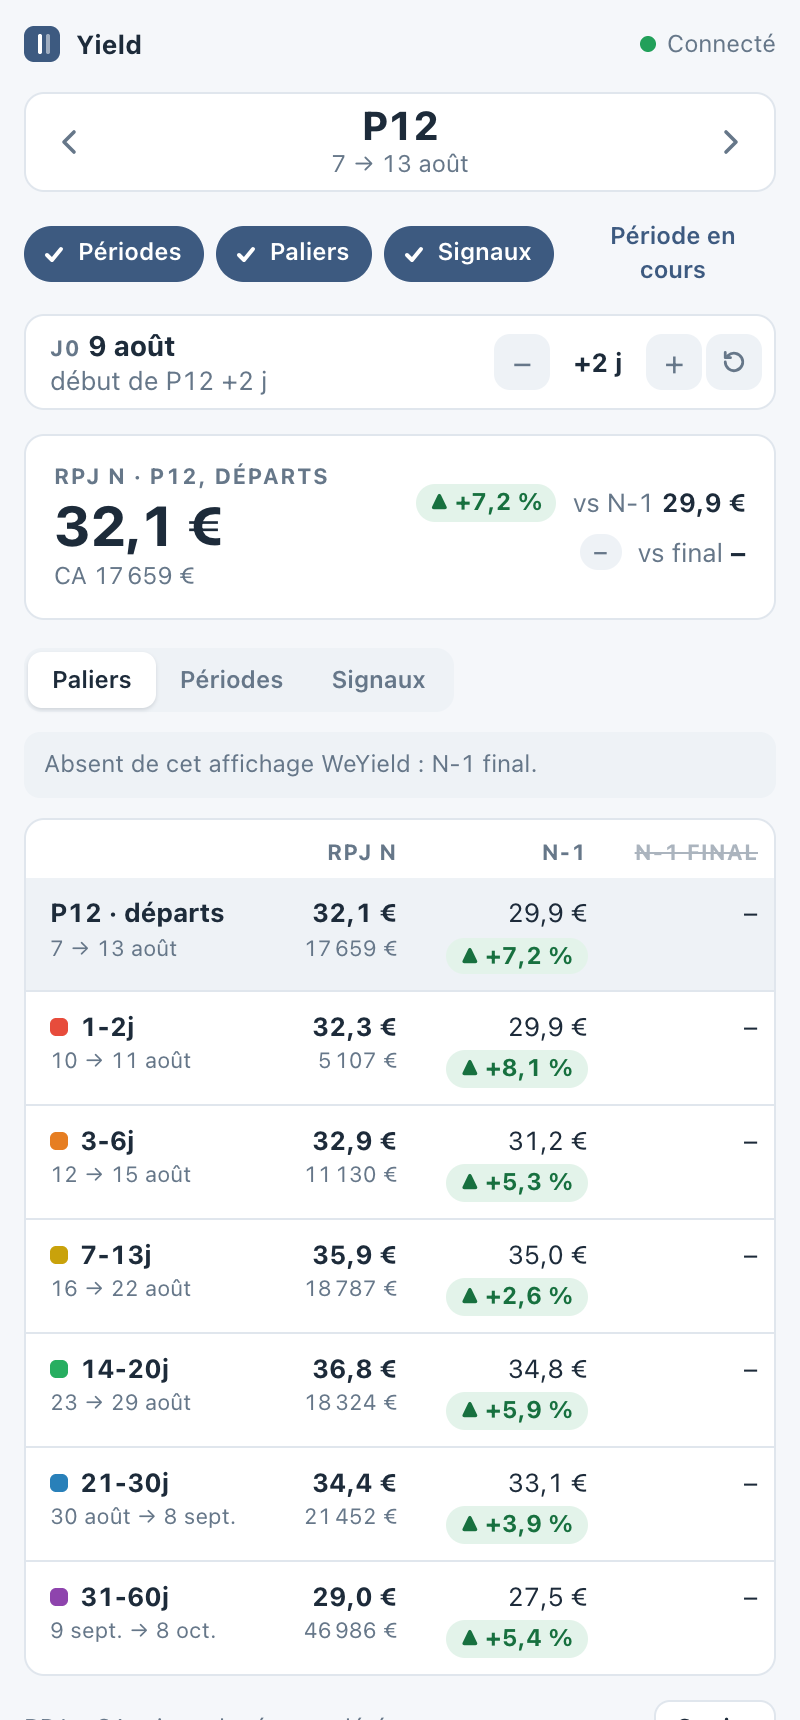
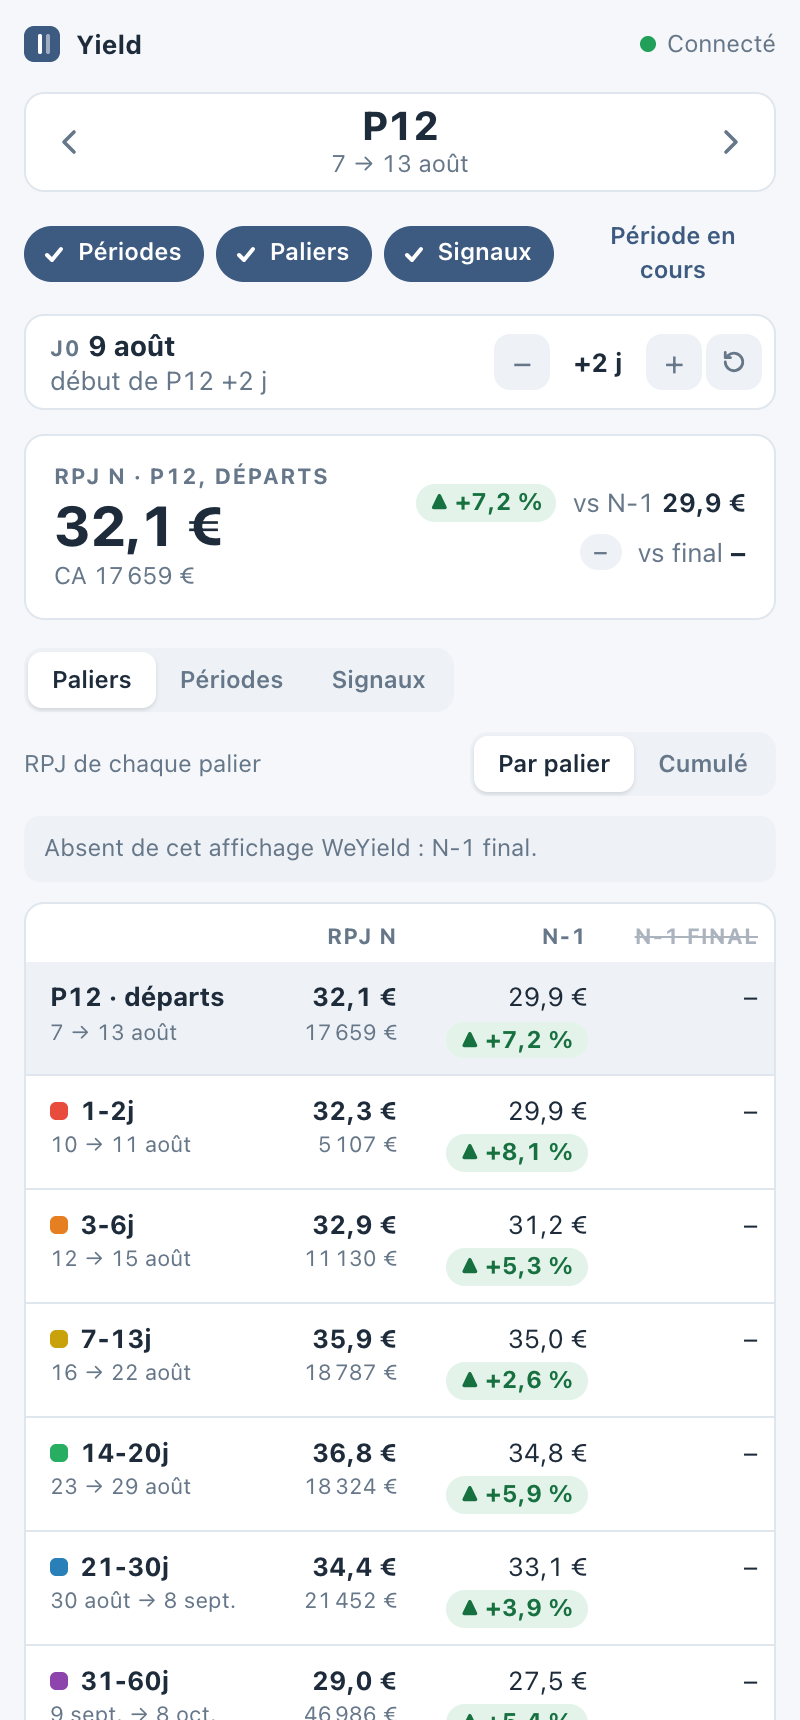
Yield WeYield v3.4.0 : bascule Paliers Par palier / Cumulé (pondéré)

diff --git a/src/panel/panel.js b/src/panel/panel.js
@@ -12,7 +12,7 @@
 
   // ---------- préférences propres au panneau ----------
   const PREF_KEY = 'wypPanel';
-  const prefs = Object.assign({ tab: 'zones', settings: false, source: 'jev' }, (() => { try { return JSON.parse(localStorage.getItem(PREF_KEY)); } catch (e) { return null; } })());
+  const prefs = Object.assign({ tab: 'zones', settings: false, source: 'jev', cum: false },(() => { try { return JSON.parse(localStorage.getItem(PREF_KEY)); } catch (e) { return null; } })());
   const savePrefs = () => { try { localStorage.setItem(PREF_KEY, JSON.stringify(prefs)); } catch (e) {} };
 
   // ---------- formats ----------
@@ -126,8 +126,11 @@
 
     $$('.seg [data-tab]').forEach(b => b.setAttribute('aria-selected', String(b.dataset.tab === prefs.tab)));
     $('#tabZones').textContent = 'Paliers';
-    const sigTab = prefs.tab === 'signals';
+    const sigTab = prefs.tab === 'signals', cum = cumOn();
     $('#tbl').hidden = sigTab; $('#tblfoot').hidden = sigTab; $('#sig').hidden = !sigTab;
+    $('#cumbar').hidden = prefs.tab !== 'zones';
+    $$('[data-cum]').forEach(b => b.setAttribute('aria-pressed', String((b.dataset.cum === '1') === !!prefs.cum)));
+    $('#tblnote').textContent = cum ? 'Cumulé depuis le 1er palier, pondéré' : 'RPJ = CA ÷ jours loués, pondéré';
     renderMsgs();
     if (sigTab) renderSignals(); else renderTable();
     syncSettings();
@@ -152,6 +155,9 @@
     const cmp = (o, d, off) => (off || !o ? '<td>–</td>' : `<td>${rpj(o.rpd)}<br>${pill(d)}</td>`);
     return `<td>${h.rpd && r.cur ? `<b>${rpj(r.cur.rpd)}</b><small>${ca(r.cur.rev)}</small>` : '–'}</td>${cmp(r.ly, r.dLy, !h.ly)}${cmp(r.lyf, r.dLyf, !h.lyf)}`;
   }
+  // Vue cumulée des paliers (onglet Paliers seulement) : chaque ligne = du premier palier jusqu'à elle, calculé par le moteur.
+  const cumOn = () => prefs.tab === 'zones' && !!prefs.cum && !!(view && view.cumZones);
+  const shownZones = () => (cumOn() ? view.cumZones : view.zones);
   function renderTable() {
     const v = view, h = v.has;
     const partial = r => (r.nDays < r.full ? `<small>⚠ ${r.nDays}/${r.full} j chargés</small>` : '');
@@ -162,7 +168,8 @@
         : '<tr><td colspan="4" class="mut">Aucune période dans la plage du graphique.</td></tr>';
     } else {
       const head = `<tr class="head"><td><span class="zl">${pLabel(v.selP)} · départs</span><small>${rng(v.selStats.from, v.selStats.to)}</small>${partial(v.selStats)}</td>${cells(v.selStats)}</tr>`;
-      body = head + (v.zones.length ? v.zones.map((z, i) => `<tr data-z="${i}" tabindex="0"><td><i style="background:rgb(${PALETTE[z.ci % PALETTE.length]})"></i><span class="zl">${z.label}</span><small>${rng(z.from, z.to)}</small>${partial(z)}</td>${cells(z)}</tr>`).join('')
+      const zs = shownZones();
+      body = head + (zs.length ? zs.map((z, i) => `<tr data-z="${i}" tabindex="0"><td><i style="background:rgb(${PALETTE[z.ci % PALETTE.length]})"></i><span class="zl">${z.label}</span><small>${rng(z.from, z.to)}</small>${partial(z)}</td>${cells(z)}</tr>`).join('')
         : '<tr><td colspan="4" class="mut">Aucun palier : ajoutez-en dans les réglages.</td></tr>');
     }
     $('#tbl').innerHTML = `<table><thead><tr><th></th><th>RPJ N</th>
@@ -293,6 +300,7 @@
     if (d.layer) return send({ op: 'toggle', name: d.layer });
     if (d.off != null && view) { const o = +d.off; return send({ op: 'config', patch: { offset: o === 0 ? 0 : view.offset + o } }); }
     if (d.tab) { prefs.tab = d.tab; savePrefs(); return view && render(); }
+    if (d.cum != null) { prefs.cum = d.cum === '1'; savePrefs(); return view && render(); }
     if (d.k != null && t.tagName !== 'BUTTON') return send({ op: 'select', k: +d.k });
   });
   document.addEventListener('keydown', e => {
@@ -307,7 +315,8 @@
   $('#sig').addEventListener('toggle', e => { const d = e.target; if (d.classList && d.classList.contains('jd')) { d.open ? openJd.add(+d.dataset.k) : openJd.delete(+d.dataset.k); } }, true);
 
   // survol d'une ligne → la zone ressort sur le graphique
-  const hover = (zone, period) => { const k = `${zone}|${period}`; if (k === lastHover) return; lastHover = k; send({ op: 'hover', zone, period }); };
+  // en vue cumulée, le palier survolé ressort avec tous les plus courts (les jours réellement additionnés)
+  const hover = (zone, period) => { const cum = zone != null && cumOn(), k = `${zone}|${period}|${cum}`; if (k === lastHover) return; lastHover = k; send({ op: 'hover', zone, period, cum }); };
   const hoverRow = e => { const r = e.target.closest ? e.target.closest('tr[data-z], tr[data-k], .sigc') : null; if (!r) return; r.dataset.z != null ? hover(+r.dataset.z, null) : hover(null, +r.dataset.k); };
   ['#tbl', '#sig'].forEach(sel => { const el = $(sel); el.addEventListener('mouseover', hoverRow); el.addEventListener('focusin', hoverRow); el.addEventListener('mouseleave', () => hover(null, null)); el.addEventListener('focusout', () => hover(null, null)); });
 
@@ -318,7 +327,7 @@
     if (!view) return;
     const rows = prefs.tab === 'periods'
       ? view.periodRows.map(r => Object.assign({ label: r.p.label }, r))
-      : [Object.assign({ label: `${view.selP.label} départs` }, view.selStats), ...view.zones.map(z => Object.assign({ label: `${view.selP.label} ${z.label}` }, z))];
+      : [Object.assign({ label: `${view.selP.label} départs` }, view.selStats), ...shownZones().map(z => Object.assign({}, z, { label: `${view.selP.label} ${z.label}${cumOn() ? ' cumulé' : ''}` }))];
     navigator.clipboard.writeText(WY.toTSV(rows)).then(() => flash('Copié ✓'), () => flash('Copie impossible'));
   });
 

diff --git a/test/browser/run.js b/test/browser/run.js
@@ -139,6 +139,29 @@ const near = (a, b, e = 0.06) => Math.abs(a - b) < e;
   hb = await bands();
   ok('fin du survol : retour à la normale', hb.find(b => b.id === 'wyp-t2').bw === 1);
 
+  // 5b. vue cumulée : chaque palier = du premier palier (1-2j) jusqu'à lui
+  ok('bascule Par palier | Cumulé visible, « Par palier » par défaut', await P.locator('#cumbar').isVisible() && (await P.getAttribute('[data-cum="0"]', 'aria-pressed')) === 'true');
+  await P.click('[data-cum="1"]'); await wait(200);
+  const c36 = await expect('2026-08-07', 1, 6), c713 = await expect('2026-08-07', 1, 13), d12 = await expect('2026-08-07', 1, 2);
+  const rc12 = await row('tr[data-z="0"]'), rc36 = await row('tr[data-z="1"]'), rc713 = await row('tr[data-z="2"]');
+  ok('cumulé 3-6j : 8 → 13 août, valeurs exactes (N, N-1, N-1 final)', /8 → 13 août/.test(rc36[0]) && near(num(rc36[1]), c36[0]) && near(num(rc36[2]), c36[1]) && near(num(rc36[3]), c36[2]), rc36.slice(0, 4).join(' | '));
+  ok('cumulé 7-13j : 8 → 20 août, valeurs exactes', /8 → 20 août/.test(rc713[0]) && near(num(rc713[1]), c713[0]) && near(num(rc713[3]), c713[2]), rc713.slice(0, 4).join(' | '));
+  ok('cumulé 1-2j = palier seul', near(num(rc12[1]), d12[0]));
+  ok('ligne « départs » inchangée en cumulé', near(num((await row('tr.head'))[1]), dep[0]));
+  ok('pied de tableau : définition du cumulé', /Cumulé/.test(await txt('#tblnote')), await txt('#tblnote'));
+  await P.hover('tr[data-z="2"]'); await wait(300);
+  hb = await bands(); const bw = i => (hb.find(b => b.id === `wyp-t${i}`) || {}).bw;
+  ok('survol cumulé 7-13j : 1-2j, 3-6j et 7-13j ressortent, 14-20j non', bw(0) === 2 && bw(1) === 2 && bw(2) === 2 && bw(3) === 1, [0, 1, 2, 3].map(bw).join());
+  await P.mouse.move(380, 20); await wait(300);
+  await P.click('#copy'); await wait(200);
+  const cl = ((await P.evaluate(() => window.__copied)) || '').split('\n').map(l => l.split('\t'));
+  ok('copie en cumulé : libellés « cumulé », plage depuis le 8 août', cl.length === 8 && /P12 3-6j cumulé/.test(cl[3][0]) && cl[3][1] === '2026-08-08' && cl[3][2] === '2026-08-13', cl[3] && cl[3].slice(0, 3).join(' | '));
+  await P.screenshot({ path: path.join(OUT, 'shot-2b-cumul.png'), fullPage: true });
+  await P.click('[data-tab=periods]'); await wait(150);
+  ok('bascule masquée hors onglet Paliers', await P.locator('#cumbar').isHidden());
+  await P.click('[data-tab=zones]'); await P.click('[data-cum="0"]'); await wait(200);
+  ok('retour « Par palier » : 3-6j = 10 → 13 août', /10 → 13 août/.test((await row('tr[data-z="1"]'))[0]));
+
   // 6. clic sur le graphique → le panneau suit
   const pos = await A.evaluate(() => { const c = Highcharts.charts[0], r = c.container.getBoundingClientRect(); return { x: r.left + c.xAxis[0].toPixels(Date.parse('2026-08-16T00:00:00Z'), false), y: r.top + c.plotTop + c.plotHeight / 2 }; });
   await A.bringToFront(); await A.mouse.click(pos.x, pos.y); await wait(400);

diff --git a/test/core.test.js b/test/core.test.js
@@ -96,6 +96,34 @@ test('zoneStats : zone partiellement hors données, séries absentes', () => {
   assert.equal(out.cur, null);
 });
 
+test('cumZones : chaque palier = du premier palier jusqu\'à lui, CA ÷ jours loués sur toute la plage', () => {
+  const j0 = day('2026-08-01');
+  const vol = {}, rpd = {};
+  for (let i = 1; i <= 6; i++) { const k = WY.isoDay(j0 + i * D); vol[k] = i; rpd[k] = 10 * i; }  // jour J0+i : i voitures à 10·i €
+  const S = { range: [j0, j0 + 10 * D], cur: { vol: series(vol), rpd: series(rpd) }, ly: null, lyf: null };
+  const zones = WY.tierZones(j0, [[1, 2], [3, 6]]).map(z => Object.assign(z, WY.zoneStats(S, z.from, z.to)));
+  const [c12, c36] = WY.cumZones(S, zones);
+  assert.equal(c12.cur.rpd, zones[0].cur.rpd);                     // le premier palier cumulé = lui-même
+  assert.equal(WY.isoDay(c36.from), '2026-08-02');
+  assert.equal(WY.isoDay(c36.to), '2026-08-07');
+  const rev = [1, 2, 3, 4, 5, 6].reduce((s, i) => s + i * 10 * i, 0), days = 21;
+  assert.ok(Math.abs(c36.cur.rpd - rev / days) < 1e-9);            // pondéré : 910 / 21 ≈ 43,3, pas la moyenne simple des deux paliers (16,7 + 47,8) / 2
+  assert.equal(c36.label, '3-6j');
+  assert.equal(c36.ci, 1);
+  assert.equal(c36.full, 6);
+});
+
+test('cumZones : paliers dans le désordre ou avec un trou → plage continue depuis le plus court', () => {
+  const j0 = day('2026-08-01');
+  const S = { range: [j0, j0 + 40 * D], cur: null, ly: null, lyf: null };
+  const zones = WY.tierZones(j0, [[7, 13], [1, 2]]);
+  const [c713, c12] = WY.cumZones(S, zones);
+  assert.equal(WY.isoDay(c713.from), '2026-08-02');                // part de 1-2j, même listé après
+  assert.equal(c713.full, 13);                                     // les jours 3 à 6 (hors paliers) comptent : une location de 7-13 j les traverse
+  assert.equal(WY.isoDay(c12.from), '2026-08-02');
+  assert.equal(c12.full, 2);
+});
+
 test('toTSV : autant de champs que d\'en-têtes, virgule décimale, séries absentes vides', () => {
   const S = { range: [day('2026-08-01'), day('2026-08-05')], cur: { vol: series({ '2026-08-02': 10 }), rpd: series({ '2026-08-02': 31.234 }) }, ly: null, lyf: null };
   const tsv = WY.toTSV([Object.assign({ label: 'P12 départs' }, WY.zoneStats(S, day('2026-08-02'), day('2026-08-02')))]);

diff --git a/src/core.js b/src/core.js
@@ -80,6 +80,12 @@
     return { from, to, nDays, full, cur, ly, lyf, dLy: pct(cur, ly), dLyf: pct(cur, lyf), dVol: vpct(cur, ly), dVolF: vpct(cur, lyf) };
   }
 
+  // Palier cumulé : du début du plus court palier jusqu'à la fin de celui-ci, CA ÷ jours loués sur toute la plage.
+  // Le RPJ d'une date mêle toutes les locations en cours ce jour-là : la zone 21-30j de P13 contient aussi les départs P14 en 14-20j, P15 en 7-13j…
+  // Le cumulé lit donc d'un bloc les jours qu'une location partie à J0 traverse. Paliers « jusqu'à lui » = ceux qui finissent au plus tard avec lui.
+  const cumZones = (S, zones) => zones.map(z => Object.assign({ label: z.label, a: z.a, b: z.b, ci: z.ci },
+    zoneStats(S, Math.min(...zones.filter(o => o.b <= z.b).map(o => o.from)), z.to)));
+
   // ---------- état persistant : valeurs par défaut et mise à niveau (pures, testées sous Node) ----------
   // rolesSchema : les réglages de séries (maps) et le graphique forcé (dataIdx) enregistrés avant que les dispositions réelles de WeYield
   // soient connues étaient faux (des volumes servaient de prix). Quand le schéma change, on les remet à zéro UNE fois : ne pas toucher à `v`,
@@ -108,5 +114,5 @@
   }
 
   Object.assign(WY, { D, DEFAULT_TIERS, ROLES, ROLE_LABEL, ROLES_SCHEMA, stateDefaults, upgradeState, PALETTE, utcDay, isoDay, parseISO, mondayOf, fmtDM, fmtDMY,
-    parseTiers, tiersToText, j0Of, tierZones, gridLenDays, makeGrid, agg, pct, zoneStats, toTSV });
+    parseTiers, tiersToText, j0Of, tierZones, gridLenDays, makeGrid, agg, pct, zoneStats, cumZones, toTSV });
 })(typeof window !== 'undefined' ? window : globalThis);

diff --git a/src/chart.js b/src/chart.js
@@ -218,9 +218,9 @@
     overlayItems(ax).map(b => b.id).forEach(id => { ax.removePlotBand(id); ax.removePlotLine(id); });
   }
 
-  // plan : { showPeriods, showTiers, periods:[{k,num,from,to,label}], selK, j0, zones:[{label,from,to,ci}], hot:{zone,period} }
+  // plan : { showPeriods, showTiers, periods:[{k,num,from,to,label}], selK, j0, zones:[{label,b,from,to,ci}], hot:{zone,period,cum} }
   // Rangées de libellés en haut : périodes (y=12), puis paliers décalés sur 3 rangées ; « J0 » en bas.
-  // hot = élément survolé dans le panneau : il ressort, le reste s'estompe.
+  // hot = élément survolé dans le panneau : il ressort, le reste s'estompe. hot.cum : vue cumulée, le palier ressort avec tous les plus courts.
   function paint(chart, plan) {
     clearOverlay(chart);
     const ax = chart.xAxis[0];
@@ -251,9 +251,9 @@
       ax.addPlotBand(band); n++;
     });
     if (plan.showTiers && plan.j0 != null) {
-      const dim = hot.zone != null;
+      const dim = hot.zone != null, hz = dim ? plan.zones[hot.zone] : null;
       plan.zones.forEach((z, i) => {
-        const c = WY.PALETTE[z.ci % WY.PALETTE.length], on = hot.zone === i;
+        const c = WY.PALETTE[z.ci % WY.PALETTE.length], on = hot.zone === i || !!(hot.cum && hz && z.b <= hz.b);
         ax.addPlotBand({ id: `${PID}-t${i}`, from: z.from - 0.5 * D, to: z.to + 0.5 * D, zIndex: 1,
           color: `rgba(${c},${on ? .34 : dim ? .06 : .14})`, borderColor: `rgb(${c})`, borderWidth: on ? 2 : 1,
           label: { text: z.label, align: 'center', verticalAlign: 'top', y: 26 + (i % 3) * 13 + dy,

diff --git a/src/engine.js b/src/engine.js
@@ -73,6 +73,7 @@
         series: S.series, roles: S.roles, autoRoles: S.auto, mapped: state.maps[ckey] || {}, ckey,
         selStats: WY.zoneStats(S, selP.from, selP.to),
         zones,
+        cumZones: WY.cumZones(S, zones),
         periodRows: periods.map(p => Object.assign({ p }, WY.zoneStats(S, p.from, p.to))),
       },
       plan: { showPeriods: state.periods, showTiers: state.tiers, periods, selK: selP.k, j0, zones },
@@ -133,7 +134,7 @@
         const keys = Object.keys(maps); if (keys.length > 20) delete maps[keys[0]];
         state.maps = maps; changed(); return;
       }
-      case 'hover': hot = { zone: Number.isInteger(m.zone) ? m.zone : null, period: Number.isInteger(m.period) ? m.period : null }; paintAll(); return;
+      case 'hover': hot = { zone: Number.isInteger(m.zone) ? m.zone : null, period: Number.isInteger(m.period) ? m.period : null, cum: m.cum === true }; paintAll(); return;
       case 'bye': hot = {}; paintAll(); return;
       case 'diag': { list = WY.findCharts(); const d = WY.pickData(list, state.dataIdx, state.maps, state.dataKey); return post({ type: 'diag', data: WY.diagnose(list, d ? d.i : null, state.maps) }); }
     }

diff --git a/src/panel/panel.html b/src/panel/panel.html
@@ -64,11 +64,18 @@
         <button role="tab" data-tab="periods">Périodes</button>
         <button role="tab" data-tab="signals">Signaux</button>
       </div>
+      <div class="row between" id="cumbar">
+        <span class="mut small" id="cumlbl">RPJ de chaque palier</span>
+        <div class="seg" role="group" aria-labelledby="cumlbl">
+          <button data-cum="0" title="RPJ des seuls jours du palier">Par palier</button>
+          <button data-cum="1" title="RPJ du premier palier jusqu'à celui-ci inclus">Cumulé</button>
+        </div>
+      </div>
       <div id="msgs"></div>
       <div id="tbl" class="tblw"></div>
       <div id="sig" hidden></div>
       <div class="row between foot" id="tblfoot">
-        <span class="mut small">RPJ = CA ÷ jours loués, pondéré</span>
+        <span class="mut small" id="tblnote">RPJ = CA ÷ jours loués, pondéré</span>
         <span class="row"><span class="mut small" id="live" aria-live="polite"></span><button class="btn sm" id="copy" title="Copier le tableau (Excel / Sheets)">Copier</button></span>
       </div>
     </section>

diff --git a/README.md b/README.md
@@ -1,4 +1,4 @@
-# Yield WeYield – panneau latéral (v3.3.0)
+# Yield WeYield – panneau latéral (v3.4.0)
 
 *Chrome side-panel extension for [WeYield](https://www.weyield.io) revenue-management users: overlays pricing periods and cost-break zones on the booking charts, compares ADR (RPJ) with last year / last year final, and flags over- or under-pricing with simple rules and an optional TypeSafe "Jev" check. Unofficial, not affiliated with WeYield or TypeSafe. Documentation below in French.*
 
@@ -38,6 +38,7 @@ Le panneau suit l'onglet actif. S'il affiche « Page non connectée », recharge
 - **J0 et décalage** : J0 = premier jour de la période choisie + le décalage (− / + en jours, ↺ pour remettre à 0). Les paliers se calculent depuis J0 : un palier « a-b j » couvre J0+a → J0+b. La ligne « départs » de la période n'est jamais décalée.
 - **Synthèse** : RPJ N de la période avec Δ vs N-1 et vs N-1 final.
 - **Tableau** : *Paliers de Pk* (départs + un palier par ligne) ou *Toutes les périodes* (clic ou Entrée sur une ligne = la choisir). **Survoler une ligne la fait ressortir sur le graphique.** Chaque colonne N-1 / N-1 final donne la valeur et l'écart. **Copier** exporte en TSV (Excel / Sheets).
+- **Paliers : Par palier | Cumulé** (bascule au-dessus du tableau, mémorisée). *Par palier* : RPJ des seuls jours du palier. *Cumulé* : chaque palier va du premier palier jusqu'à lui inclus (21-30j = J0+1 → J0+30), pour N, N-1 et N-1 final. Raison : le RPJ d'une date mêle toutes les locations en cours ce jour-là ; la zone 21-30j de P13 contient aussi les départs de P14 en 14-20j, de P15 en 7-13j, etc. Le survol fait ressortir tous les paliers additionnés ; la copie suit la vue (libellés « cumulé »).
 - **Réglages** (repliés, résumé en un coup d'œil) : « Période n° 10 commence le 24/07/2026 », durée d'une période, liste des paliers (un champ par palier, couleur identique au graphique, corrigés si incohérents). Tout s'applique immédiatement.
 - Thème clair / sombre automatique.
 
@@ -80,6 +81,7 @@ Les séries anonymes (« Series N »), les flottes et les `delta` ne sont jamais
 
 ## Lecture des chiffres
 - RPJ = CA ÷ jours loués, moyenne pondérée par le nombre de voitures en location (`OnRent` × `Revenu par jour`, comme l'infobulle WeYield).
+- Cumulé : même formule sur toute la plage du premier palier à la fin du palier (CA cumulé ÷ jours loués cumulés), pas une moyenne simple des RPJ des paliers. Les jours entre deux paliers non contigus comptent (une location plus longue les traverse).
 - N-1 = série `lastyear` (même date) ; N-1 final = série `lastyearFinal`. Si l'affichage WeYield n'en charge qu'une, l'autre colonne est barrée et un message l'indique.
 - Seuls les jours chargés dans le graphique comptent : `⚠ 4/7 j chargés` signale une zone coupée.
 
